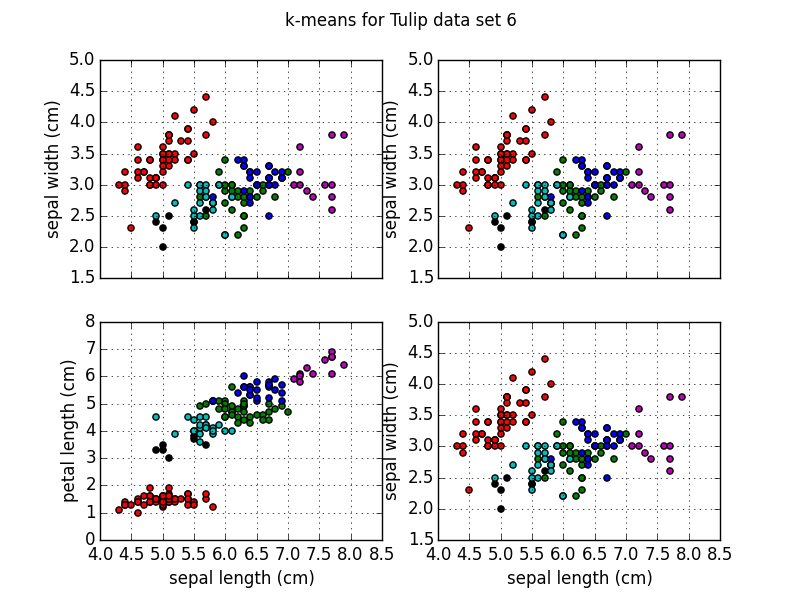
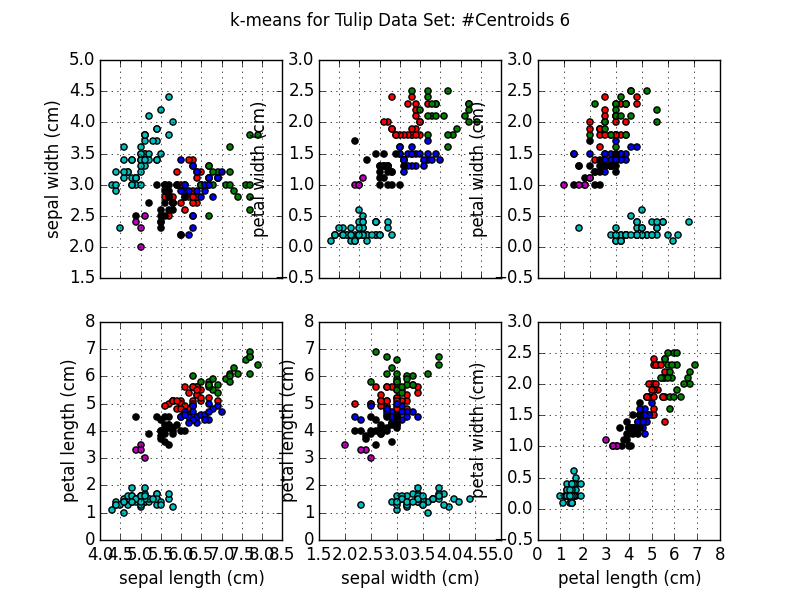
Finished fully functional k-means algorithm.

diff --git a/homework/MyWork/HomeWork2/kMeansDriver.py b/homework/MyWork/HomeWork2/kMeansDriver.py
@@ -2,7 +2,13 @@
 #
 # Purupose: Applies a basic K-means on the tulip data set. 
 #
+# Note: Adjust global variable 'MAXSEARCH' to adjust the
+# total number of iterations a search can take for optimal
+# centroid location. Set 'SAVEPLOT' to save output of code
+# to '.png' file or not. 
+#  
 # Author: Jose Solomon
+
 import random
 import numpy as np
 import pandas as pd
@@ -10,12 +16,24 @@ import matplotlib.pyplot as plt
 from sklearn.datasets import load_iris
 from sklearn import datasets
 import math
-MAXSEARCH = 100
 
+MAXSEARCH = 100
+SAVEPLOT = True
 # Load the data set into a dataframe
 iris = datasets.load_iris()
 # Now convert it to a pandas datafrem
 irisDF = pd.DataFrame(iris.data, columns=iris.feature_names)
+
+def main():
+	# Define a range of number of centroids
+	kCenters = range(4,10,1)
+	# Perform k-means
+	for k in range(0,len(kCenters)):
+		(centroids, labels, irisMx) = kMeans(irisDF, kCenters[k])
+		# print labels
+		print centroids
+		# Plot centroids
+		plotCentroids(centroids,labels,kCenters[k])
 
 # Main driver function
 def kMeans(irisData, k):
@@ -162,7 +180,7 @@ def randomCentroid(minMax, nFeatures):
 # Copied from class
 def plotCentroids(centroids,labels, k):
 	# plt.figure(1)
-	fig, axes = plt.subplots(nrows=2, ncols=2)
+	fig, axes = plt.subplots(nrows=2, ncols=3)
 	
 	colors = ['r','g','b','k','m','c','w','y','0.75']
 	for i in range(0,k):
@@ -178,27 +196,26 @@ def plotCentroids(centroids,labels, k):
 	for i in range(0,k):
 		indices = np.where(labels == i)[0]
 		tmp = irisDF.loc[indices,]
-		tmp.plot(x=0, y =1, kind ='scatter', c=colors[i], ax=axes[0,1])
+		tmp.plot(x=0, y =3, kind ='scatter', c=colors[i], ax=axes[0,1])
 
 	for i in range(0,k):
 		indices = np.where(labels == i)[0]
 		tmp = irisDF.loc[indices,]
-		tmp.plot(x=0, y =1, kind ='scatter', c=colors[i], ax=axes[1,1])
+		tmp.plot(x=1, y =2, kind ='scatter', c=colors[i], ax=axes[1,1])
+
+	for i in range(0,k):
+		indices = np.where(labels == i)[0]
+		tmp = irisDF.loc[indices,]
+		tmp.plot(x=1, y =3, kind ='scatter', c=colors[i], ax=axes[0,2])
+
+	for i in range(0,k):
+		indices = np.where(labels == i)[0]
+		tmp = irisDF.loc[indices,]
+		tmp.plot(x=2, y =3, kind ='scatter', c=colors[i], ax=axes[1,2])
 	
-	plt.suptitle('k-means for Tulip data set {}'.format(k))
+	plt.suptitle('k-means for Tulip Data Set: #Centroids {}'.format(k))
 	plt.savefig('kMeans_for_#Centroids_{}.png'.format(k))
 	plt.show()
-
-def main():
-	# Define a range of number of centroids
-	kCenters = range(4,10,1)
-	# Perform k-means
-	for k in range(0,len(kCenters)):
-		(centroids, labels, irisMx) = kMeans(irisDF, kCenters[k])
-		# print labels
-		print centroids
-		# Plot centroids
-		plotCentroids(centroids,labels,kCenters[k])
 
 
 if __name__ == '__main__':
